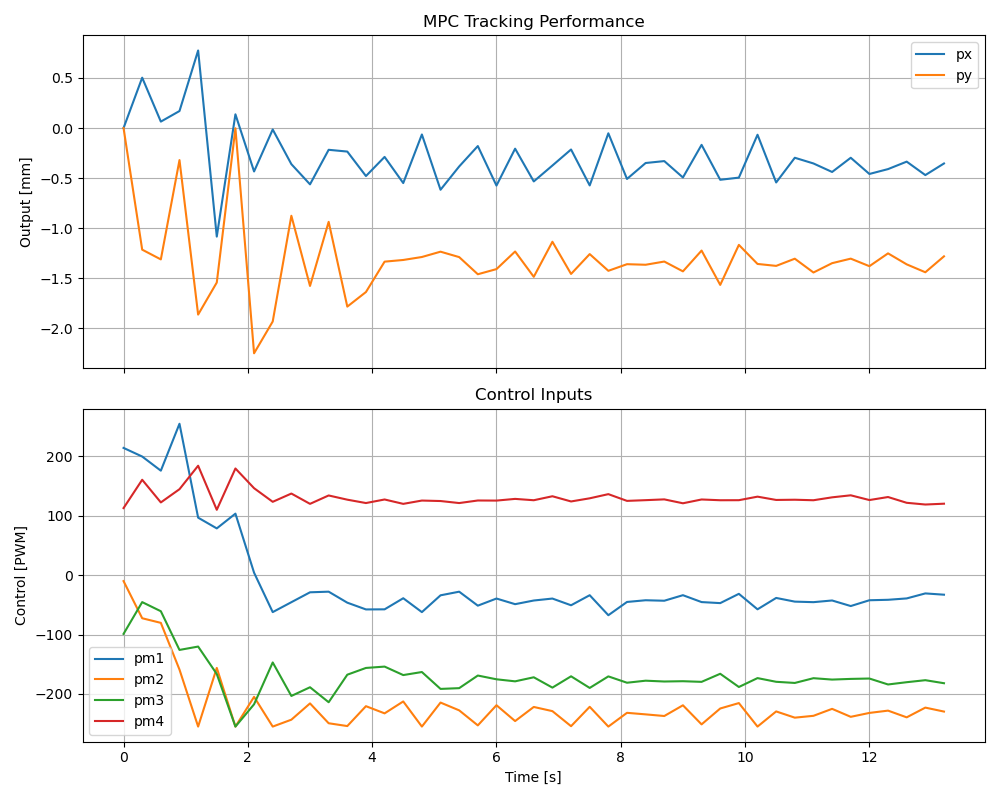
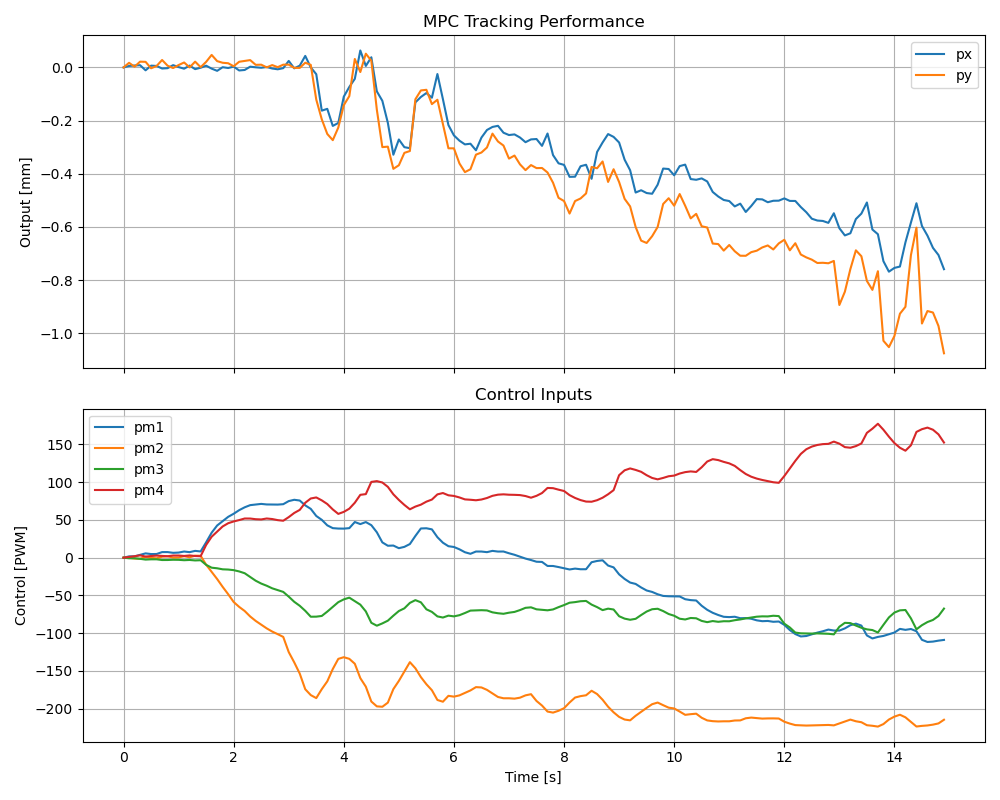
line traj, u rate weight

diff --git a/control.py b/control.py
@@ -7,6 +7,17 @@ import signal
 import sys
 import numpy as np
 
+STEP = False
+LINE = True
+CIRCLE = False
+
+def line_trajectory(start, end, N):
+    # Return a 2D trajectory between the start and end point with N points
+    x_values = np.linspace(start[0], end[0], N)
+    y_values = np.linspace(start[1], end[1], N)
+    return np.vstack((x_values, y_values)).T
+    
+
 def signal_handler(sig, frame):
     print('\nShutting down gracefully...')
     tracker_instance.quit = True
@@ -43,9 +54,19 @@ try:
     else:
         print("No tracker provided, skipping initial position print.")
 
-    # Define target trajectory (simple step reference)
-    target_position = np.array([-0.9, -1.5])  # Target px, py in mm
-    print(f"Target position: {target_position} mm")
+    if STEP:
+        # Define target trajectory (simple step reference)
+        target_position = np.array([-0.9, -1.5])  # Target px, py in mm
+        print(f"Target position: {target_position} mm")
+
+    if LINE:
+        # Define target trajectory (simple line reference)
+        line_start = np.array([0.0, 0.0])
+        line_end = np.array([-0.9, -1.0])
+        target_trajectory = line_trajectory(line_start, line_end, N=10)
+        print(f"Target trajectory (line): {target_trajectory} mm")
+
+    # if CIRCLE:
 
     # MPC control loop
     def mpc_control_loop():
@@ -56,6 +77,8 @@ try:
         T = MPCConfig.SIM_TIME
         control_rate = int(1.0 / dt)
         max_iterations = int(T * control_rate)
+
+        line_step = max_iterations // len(target_trajectory) if LINE else 1
         
         for i in range(max_iterations):
             try:
@@ -65,6 +88,12 @@ try:
                     current_pos_mm = (current_pos - controller_instance.init_coordinates) * config.px_to_mm
                 else:
                     current_pos_mm = np.array([0.0, 0.0])
+
+                # Determine target position
+                if LINE:
+                    if i % line_step == 0 and (i // line_step) < len(target_trajectory):
+                        target_position = target_trajectory[i // line_step]
+                    target_position = target_position
                 
                 # Get optimal control from MPC with current position feedback
                 u_optimal = mpc_controller.step(target_position, current_pos_mm)
@@ -75,6 +104,7 @@ try:
                 
                 print(f"Step {i+1}/{max_iterations}: Sending PWM: {pwm_values}")
                 controller_instance.send_arduino(command)
+                time.sleep(0.1)
                 
                 # Logging current position
                 if controller_instance.tracker is not None:
@@ -121,6 +151,37 @@ try:
     # Plot MPC results
     print("Plotting MPC results...")
     mpc_controller.plot_results()
+
+    # Plot 2D trajectory and target trajectory
+    # Plot 2D trajectory
+    import matplotlib.pyplot as plt
+    
+    if mpc_controller.history_y:
+        # Extract x and y coordinates from history
+        actual_trajectory = np.array(mpc_controller.history_y)
+        
+        plt.figure(figsize=(10, 6))
+        
+        # Plot actual trajectory
+        plt.plot(actual_trajectory[:, 0], actual_trajectory[:, 1], 'b-', label='Actual Trajectory', linewidth=2)
+        
+        # Plot target trajectory if LINE mode
+        if LINE:
+            plt.plot(target_trajectory[:, 0], target_trajectory[:, 1], 'r--', label='Target Trajectory', linewidth=2, marker='o')
+        elif STEP:
+            plt.plot(target_position[0], target_position[1], 'ro', markersize=10, label='Target Position')
+        
+        # Mark start and end points
+        plt.plot(actual_trajectory[0, 0], actual_trajectory[0, 1], 'go', markersize=8, label='Start')
+        plt.plot(actual_trajectory[-1, 0], actual_trajectory[-1, 1], 'ko', markersize=8, label='End')
+        
+        plt.xlabel('X Position (mm)')
+        plt.ylabel('Y Position (mm)')
+        plt.title('2D Trajectory Tracking')
+        plt.legend()
+        plt.grid(True, alpha=0.3)
+        plt.axis('equal')
+        plt.show()
     
     print("\nMPC experiment completed successfully.")
 

diff --git a/src/mpc.py b/src/mpc.py
@@ -17,12 +17,15 @@ class MPCConfig:
     SCALERS_PATH = os.path.join(BASE_DIR, "..", "data", EXP_FOLDER, "scalers.pkl")
     
     N = 3  # MPC horizon
-    DT = 0.3  # time step
+    DT = 0.1  # time step
     SIM_TIME = 15.0
     
     # Cost weights
     Q_pos = 10000.0  # position tracking weight
     R_control = 0.1  # control effort weight
+    R_rate = 1.0  # control rate weight
+    LAMBDA = 100.0  # terminal cost weight
+
     
     # Control bounds (PWM values)
     U_MIN = np.array([-255, -255, -255, -255])
@@ -40,6 +43,7 @@ class MPCController:
         # Initialize history
         self.history_y = []
         self.history_u = []
+        self.u_previous = np.zeros(self.n_controls)  # Store previous control for rate penalty
         
         print(f"Initialized MPCController")
         print(f"  Outputs: {self.n_outputs}, Controls: {self.n_controls}")
@@ -87,6 +91,7 @@ class MPCController:
         self.y_ref = self.opti.parameter(self.n_outputs, 1)  # Reference output
         self.lambda_param = self.opti.parameter(1, 1)  # Terminal cost weight
         self.P_terminal = self.opti.parameter(self.n_outputs, self.n_outputs)  # Terminal cost matrix
+        self.u_prev = self.opti.parameter(self.n_controls, 1)  # Previous control input
         
         # Linear approximation parameters
         self.A_lin = self.opti.parameter(self.n_outputs, self.n_controls)
@@ -104,6 +109,12 @@ class MPCController:
             
             # Control effort cost
             cost += MPCConfig.R_control * ca.sumsqr(u_k)
+            
+            # Control rate cost
+            if k == 0:
+                cost += MPCConfig.R_rate * ca.sumsqr(u_k - self.u_prev)
+            else:
+                cost += MPCConfig.R_rate * ca.sumsqr(u_k - self.U[:, k-1])
         
         # Terminal cost - use final predicted output
         y_terminal = self.A_lin @ self.U[:, -1] + self.b_lin
@@ -180,8 +191,8 @@ class MPCController:
     def step(self, y_ref, y_current=None):
         """Solve MPC and return optimal control input"""
         # Use previous control as nominal point for linearization
-        if hasattr(self, 'u_prev'):
-            u_nom = self.u_prev.copy()
+        if hasattr(self, 'u_previous'):
+            u_nom = self.u_previous.copy()
         else:
             u_nom = np.zeros(self.n_controls)
         
@@ -197,7 +208,7 @@ class MPCController:
         
         # Compute terminal cost matrix
         P_terminal = self.compute_terminal_cost_matrix(A_lin)
-        lambda_weight = 50.0  # Terminal cost scaling factor
+        lambda_weight = MPCConfig.LAMBDA
         
         # Set parameters
         self.opti.set_value(self.y_ref, y_ref.reshape(-1, 1))
@@ -205,11 +216,12 @@ class MPCController:
         self.opti.set_value(self.b_lin, b_lin.reshape(-1, 1))
         self.opti.set_value(self.P_terminal, P_terminal)
         self.opti.set_value(self.lambda_param, np.array([[lambda_weight]]))
+        self.opti.set_value(self.u_prev, self.u_previous.reshape(-1, 1))
         
         try:
             sol = self.opti.solve()
             u_optimal = sol.value(self.U[:, 0])  # Take first control action
-            self.u_prev = u_optimal.copy()  # Store for next iteration
+            self.u_previous = u_optimal.copy()  # Store for next iteration rate penalty
             return u_optimal
         except Exception as e:
             print(f"MPC solver failed: {e}")

diff --git a/src/controller.py b/src/controller.py
@@ -21,6 +21,7 @@ class Controller:
         self.tracker = tracker
         self.save_data = False
         self.init_coordinates = [0, 0]
+        self.control_window = []
 
         # Init csv to log positions and velocities if tracker is provided
         if self.tracker is not None:
@@ -44,6 +45,25 @@ class Controller:
             time.sleep(2)
             if debug: print(f"Finished sweep for radius: {radius}")
         if debug: print("\nFinished all polygons.")
+
+    def filter_control_signals(self, signals):
+        """
+        Apply a simple moving average filter to the control signals to smooth them.
+        """
+        # String to list of integers
+        signals = list(map(int, signals.split(",")))
+        filtered = signals
+
+        window_size = 5
+        if len(self.control_window) < window_size:
+            self.control_window.append(signals)
+        else:
+            self.control_window.pop(0)
+            self.control_window.append(signals)
+            filtered = np.mean(self.control_window, axis=0).astype(int)
+            
+        # Return as comma-separated string
+        return ",".join(map(str, filtered))
 
     def generate_random_trajectory(self, N):
         """
@@ -125,8 +145,9 @@ class Controller:
             writer.writerow(row)
 
     def send_arduino(self, command):
+        filtered_command = self.filter_control_signals(command)
         if self.arduino.is_open:
-            self.arduino.write(command.encode())
+            self.arduino.write(filtered_command.encode())
         else:
             print("Error: Arduino port is not open.")
         time.sleep(0.1)
